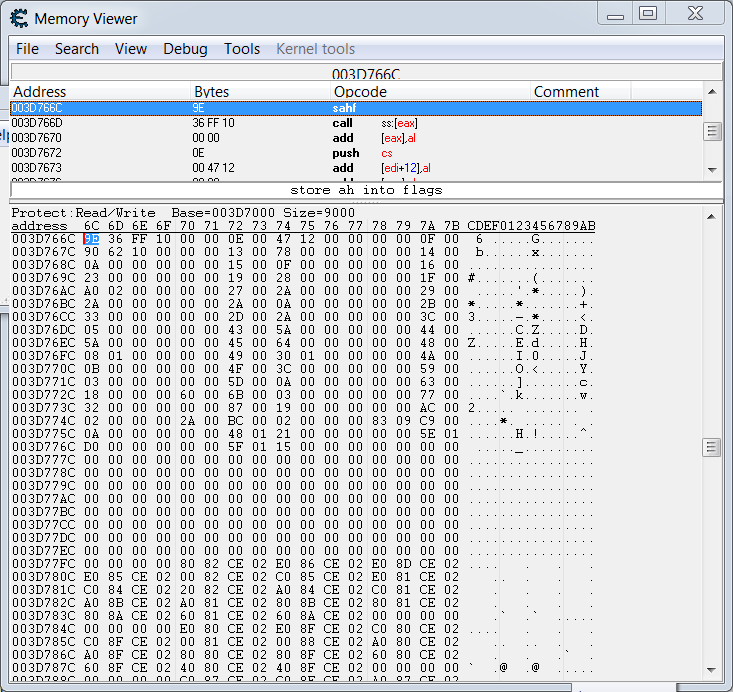
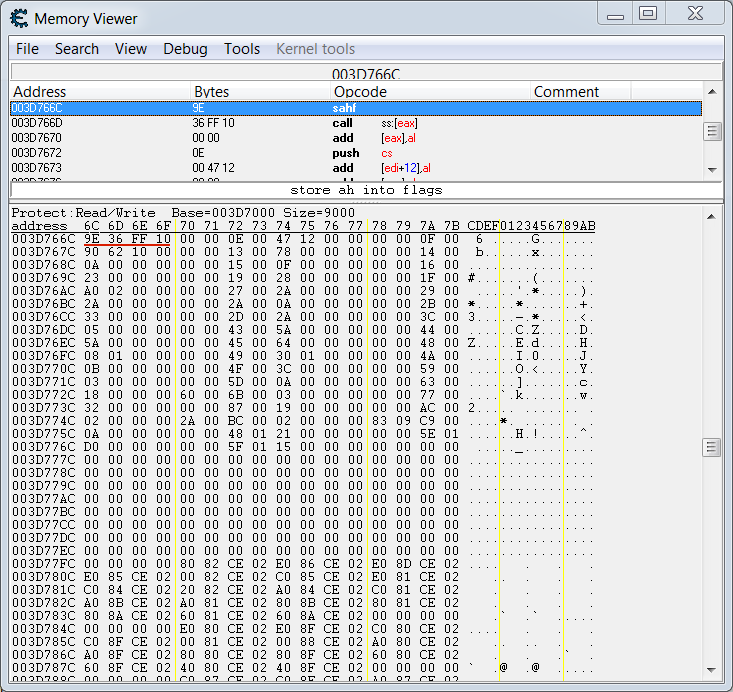
- Describe the "Memory Viewer" window of Cheat Engine scanner

Changed region(s): [[0.0, 0.1214, 0.03, 0.4552], [0.7804, 0.9711, 0.9304, 1.0], [0.09, 0.3338, 0.1501, 0.3642]]

diff --git a/InGameBots/example.md b/InGameBots/example.md
@@ -69,7 +69,7 @@ You can see, that all found variables are stored into the segments of "unknown" 
 
 We can try another way to find a character object. It is obvious, that parameters of the object will be changed, when a player performs the actions. For example, the object's coordinates will be changed when a character moves. Also the live value will be decreased when the character gains a damage from monsters. Consider this fact, we can analyze the nature of changes in the memory that is located near the experience values. Cheat Engine memory scanner provides a feature of displaying changes in a memory region in real-time. There is an algorithm to open a Memory Viewer window of the Cheat Engine application:
 
-1. Select a value in the resulting list.
+1. Select a value in the resulting list for inspection.
 2. Left click on the value.
 3. Select the "Browse this memory region" item in the popup menu.
 
@@ -77,9 +77,14 @@ You will see the Memory Viewer window after these steps:
 
 ![Memory Viewer](memory-viewer.png)
 
-Now you should place Memory Viewer window and Diablo 2 window near each other. It allows you to perform actions in the Diablo 2 window and to inspect a memory region. This is a screenshot with results of this kind of memory inspection:
+The Memory Viewer window is splitted into two parts. Disassembled code of the specified memory region is displayed at the top part of the window. The memory dump in hexadecimal format is displayed at the bottom part of the window. We will focus on the memory dump in our investiagtion. The experience value is underlined by a red line on the screenshoot. It is not obvious, why the hexadecimal value "9E 36 FF 10" in the memory dump is equal to the actual experience value "285161118" in decimal. Our application is launched on x86 architecture. It has a [little-endian](https://en.wikipedia.org/wiki/Endianness#Little-endian) byte order. This means, that you should reverse the order of bytes in 4 byte integer to get its correct value. The hexadecimal value becames equal to "10 FF 36 9E" in our case. You can use the standard windows calculator application to make sure, that this hexadecimal value is equal to the "285161118" one in decimal. Actually you can change a display type of the memory dump by left mouse clicking on it and selecting a "Display Type" item of the popup menu. But I recommend you to keep a type in the "Byte hex" format. Because you does not know an actual size in bytes of the parameters that you are looking for.
+
+Now you should place Memory Viewer window and Diablo 2 window near each other. It allows you to perform actions in the Diablo 2 window and to inspect a memory region simultaneously. This is a screenshot with results of this kind of memory inspection:
 
 ![Memory Inspection](memory-inspection.png)
+
+These results matches to the last value in the resulting list of the main Cheat Engine window with "04FC04A4" address. This address may differ in your case.
+
 
 TODO: Describe a method of investigation a fields meaning of the object .
 

diff --git a/InGameBots/process-memory-analysis.md b/InGameBots/process-memory-analysis.md
@@ -114,7 +114,7 @@ ColorPix application has been described and used in the "Clicker Bots" chapter. 
 
 ![ColorPix](colorpix.png)
 
-We will looking for a variable in memory that matches the X coordinate of a selected pixel on a screen. This value is displayed in the application's window and underscored by a red line in the screenshot.
+We will looking for a variable in memory that matches the X coordinate of a selected pixel on a screen. This value is displayed in the application's window and underlined by a red line in the screenshot.
 
 It is important to emphasize that you should not close the ColorPix application during all process of analysis. If you close and restart the application you should start to search variable from the beginning.
 
@@ -191,7 +191,7 @@ Memory of Resource Monitor application from Windows 7 distribution will be analy
 
 ![Resource Monitor](resource-monitor.png)
 
-The "Free" memory amount is underscored by red line. We will looking for a variable in the process's memory that stores the corresponding value.
+The "Free" memory amount is underlined by red line. We will looking for a variable in the process's memory that stores the corresponding value.
 
 First step of looking for a segment which contains a variable with free memory amount still the same as one for 32-bit application. You can use 64-bit version of Cheat Engine scanner to get an absolute address of the variable. There are to variables that store free memory amount with "00432FEC" and "00433010" absolute addresses for my case. You can get totally different absolute addresses, but it does not affect the whole algorithm of searching variables.
 
